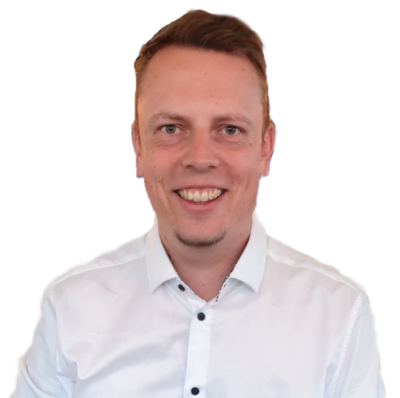
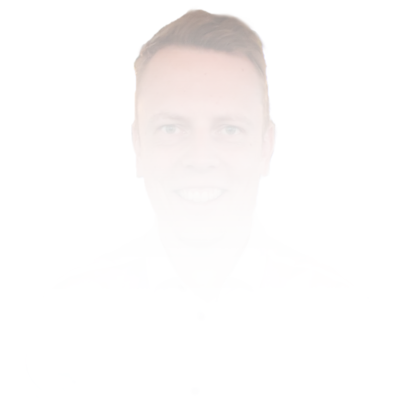
add responsive background-image to about

diff --git a/app/assets/styles/components/__about.css b/app/assets/styles/components/__about.css
@@ -5,7 +5,7 @@
 	align-items: center;
 	width: 100%;
 	height: 100vh;
-	background-color: green;
+	background: rgb(48, 45, 45);
 
 	@supports (
 		(-webkit-clip-path: polygon(0 12rem, 100% 0, 100% 100%, 0 100%)) or
@@ -19,6 +19,7 @@
 
 	@mixin tab {
 		height: 100%;
+		background: none;
 
 		@supports (
 			(-webkit-clip-path: polygon(0 12rem, 100% 0, 100% 100%, 0 100%)) or
@@ -33,13 +34,23 @@
 
 	&__wrapper {
 		display: flex;
+		flex-direction: column;
+		justify-content: flex-end;
 		width: 100%;
+		height: 60%;
+		background-image: url(./assets/images/profile600.png);
+		background-size: contain;
+		background-repeat: no-repeat;
+		background-position: center;
+
+		@mixin tab {
+			height: 100%;
+			background-image: url(./assets/images/profile600.png);
+		}
 
 		@mixin desktop {
-			flex-direction: column;
-			justify-content: flex-end;
 			width: 90%;
-			height: 100%;
+			background-image: url(./assets/images/profile800.png);
 		}
 	}
 }
